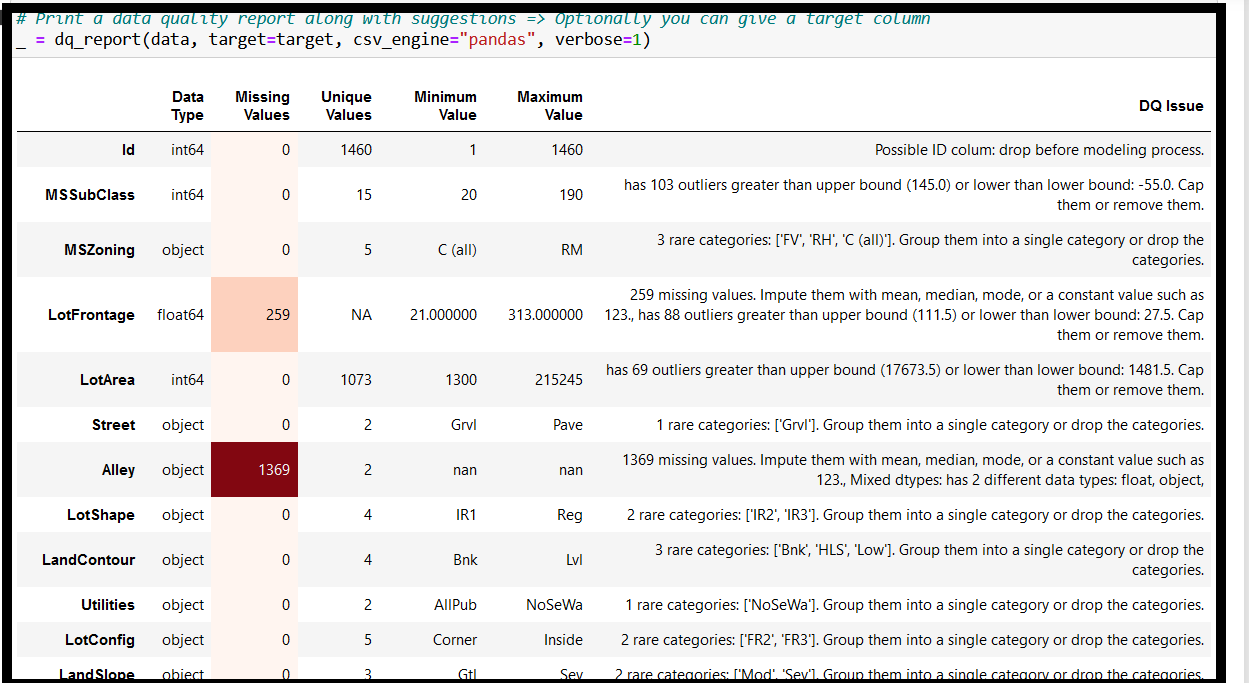
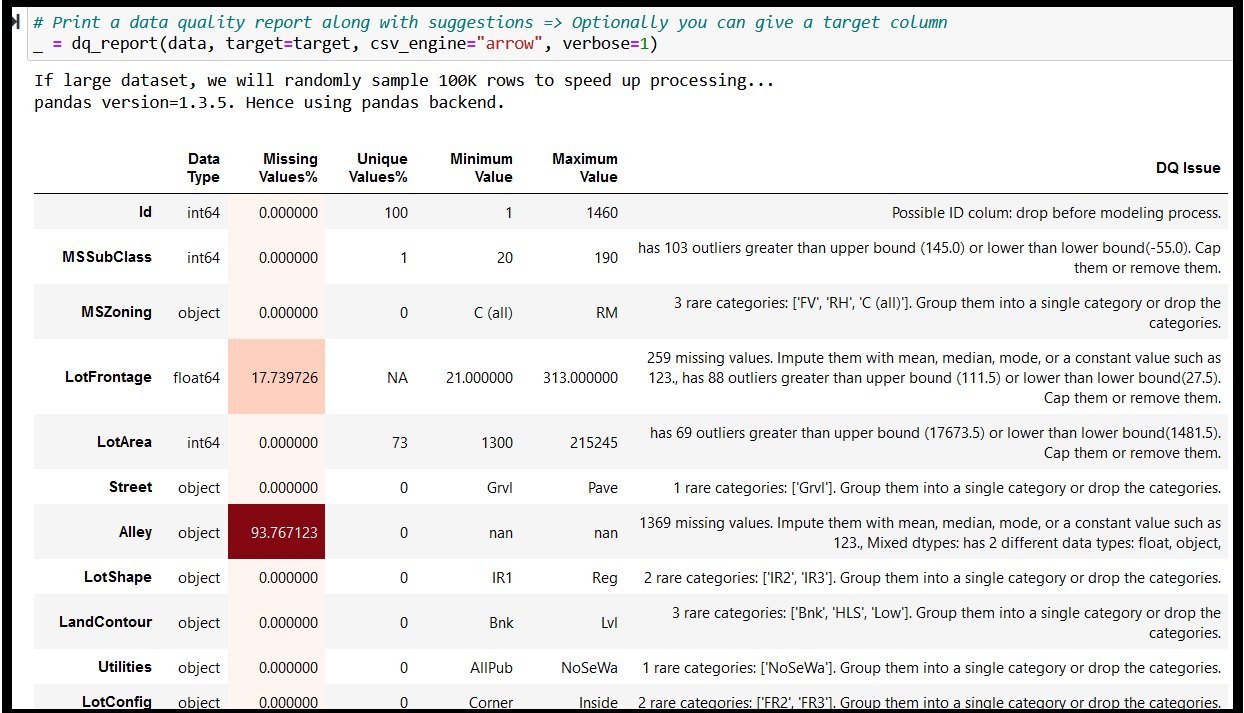
Adding percentages to dq_report

diff --git a/pandas_dq.py b/pandas_dq.py
@@ -69,26 +69,38 @@ def dq_report(data, target=None, csv_engine="pandas", verbose=0):
         ext = os.path.splitext(data)[-1]
         # Load the file into a pandas dataframe based on the extension
         if ext == ".csv":
+            print("If large dataset, we will randomly sample 100K rows to speed up processing...")
             if csv_engine == 'pandas':
                 # Upload the data file into Pandas
-                df = pd.read_csv(data, nrows=1000000)
+                df = pd.read_csv(data)
             elif csv_engine == 'polars':
                 # Upload the data file into Polars
                 import polars as pl
-                df_polars = pl.read_csv(data, nrows=1000000)
+                df = pl.read_csv(data)
             elif csv_engine == 'parquet':
                 # Upload the data file into Parquet
                 import pyarrow as pa
-                df_parquet = pa.read_table(data)
+                df = pa.read_table(data)
+            else :
+                # print the pandas version
+                if str(pd.__version__)[0] == '2':
+                    print(f"pandas version={pd.__version__}. Hence using pyarrow backend.")
+                    df = pd.read_csv(data, engine='pyarrow', dtype_backend='pyarrow')
+                else:
+                    print(f"pandas version={pd.__version__}. Hence using pandas backend.")
+                    df = pd.read_csv(data)
         elif ext == ".parquet":
             df = pd.read_parquet(data)
-        elif ext in [".feather", ".arrow"]:
+        elif ext in [".feather", ".arrow", "ftr"]:
             df = pd.read_feather(data)
         else:
             print("Unsupported file format. Please use CSV, parquet, feather or arrow.")
-            return
+            return data
+        ######## This is to sample the data if it is too large ###
+        if df.shape[0] >= 1000000:
+            df = df.sample(100000)
     elif isinstance(data, pd.DataFrame):
-        # Use the input dataframe as is
+        print("We use the input dataframe as is...")
         df = data
     else:
         print("Invalid input. Please provide a string (filename) or a dataframe.")
@@ -112,6 +124,7 @@ def dq_report(data, target=None, csv_engine="pandas", verbose=0):
     )
 
     missing_values = df.isnull().sum()
+    missing_values_pct = ((df.isnull().sum()/df.shape[0])*100)
     missing_cols = missing_values[missing_values > 0].index.tolist()
     number_cols = df.select_dtypes(include=["integer", "float"]).columns.tolist() # Get numerical columns
     float_cols = df.select_dtypes(include=[ "float"]).columns.tolist() # Get float columns
@@ -119,17 +132,17 @@ def dq_report(data, target=None, csv_engine="pandas", verbose=0):
     zero_var_cols = []
 
     missing_data = pd.DataFrame(
-        missing_values,
-        columns=['Missing Values']
+        missing_values_pct,
+        columns=['Missing Values%']
     )
     unique_values = pd.DataFrame(
-        columns=['Unique Values']
+        columns=['Unique Values%']
     )
     for row in list(df.columns.values):
         if row in float_cols:
             unique_values.loc[row] = ["NA"]
         else:
-            unique_values.loc[row] = [df[row].nunique()]
+            unique_values.loc[row] = [int(100*df[row].nunique()/df.shape[0])]
             if df[row].nunique() == df.shape[0]:
                 id_cols.append(row)
             elif df[row].nunique() == 1:
@@ -310,7 +323,7 @@ def dq_report(data, target=None, csv_engine="pandas", verbose=0):
                     dq_df1.loc[bad_col,'first_comma'] = ', '
                     first_time =False
                 ### check if there are outlier columns and print them ##
-                new_string = f"has {len(outliers)} outliers greater than upper bound ({upper_bound}) or lower than lower bound: {lower_bound}. Cap them or remove them."
+                new_string = f"has {len(outliers)} outliers greater than upper bound ({upper_bound}) or lower than lower bound({lower_bound}). Cap them or remove them."
                 dq_df2.loc[col,new_col] += dq_df2.loc[col,'first_comma'] + new_string
                 dq_df2.loc[col,'first_comma'] = ', '
         if len(outlier_cols) < 1:
@@ -327,7 +340,7 @@ def dq_report(data, target=None, csv_engine="pandas", verbose=0):
         dq_df1.loc[bad_col,new_col] += dq_df1.loc[bad_col,'first_comma'] + new_string
         dq_df1.loc[bad_col,'first_comma'] = ', '
         for col in high_card_cols:
-            new_string = f"high cardinality with {cardinality[col]} unique values."
+            new_string = f"high cardinality with {cardinality[col]} unique values: Use hash encoding or embedding to reduce dimension."
             dq_df2.loc[col,new_col] += dq_df2.loc[col,'first_comma'] + new_string
             dq_df2.loc[col,'first_comma'] = ', '
     else:
@@ -806,7 +819,7 @@ class Fix_DQ(BaseEstimator, TransformerMixin):
 
 ############################################################################################
 module_type = 'Running' if  __name__ == "__main__" else 'Imported'
-version_number =  '1.7'
+version_number =  '1.8'
 print(f"""{module_type} pandas_dq ({version_number}). Always upgrade to get latest version.
 from pandas_dq import dq_report, Fix_DQ
 """)

diff --git a/setup.py b/setup.py
@@ -5,7 +5,7 @@ with open("README.md", "r", encoding="utf-8") as fh:
 
 setuptools.setup(
     name="pandas_dq",
-    version="1.7",
+    version="1.8",
     author="Ram Seshadri",
     # author_email="author@example.com",
     description="Clean your data using a scikit-learn transformer in a single line of code",

diff --git a/README.md b/README.md
@@ -135,15 +135,16 @@ pandas_dq has a very simple API with just two modules to import: one will find d
 
 **Arguments**
 
-`dq_report` has only 4 arguments:
-- `data`: You can provide any kind of file format (string) or even a pandas DataFrame (df). It reads parquet, csv, feather, arrow, all kinds of file formats straight from disk. You just have to tell it the path to the file and the name of the file.
+`dq_report` has only 4 arguments:<br>
+<b>Caution:</b> For very large data sets, we randomly sample 100K rows from your CSV file to speed up reporting. If you want a larger sample, simply read in your file offline into a pandas dataframe and send it in as input, and we will load it as it is. This is one way to go around our speed limitations.
+- `data`: You can provide any kind of file format (string) or even a pandas DataFrame (df). It reads parquet, csv, feather, arrow, all kinds of file formats straight from disk. You just have to tell it the path to the file and the name of the file. 
 - `target`: default: `None`. Otherwise, it should be a string name representing the name of a column in df. You can leave it as `None` if you don't want any target related issues.
 - `csv_engine`: default is `pandas`. If you want to load your CSV file using any other backend engine such as `arrow` or `parquet` please specify it here. This option only impacts CSV files.
 - `verbose`: This has 2 possible states:
   - `0` summary report. Prints only the summary level data quality issues in the dataset. Great for managers.
   - `1` detailed report. Prints all the gory details behind each DQ issue in your dataset and what to do about them. Great for engineers.
 
-`Fix_DQ` has slightly more arguments:
+`Fix_DQ` has slightly more arguments:<br>
 <b>Caution:</b> X_train and y_train in Fix_DQ must be pandas Dataframes or pandas Series. I have not tested it on numpy arrays. You can try your luck.
 
 - `quantile`: float (0.75): Define a threshold for IQR for outlier detection. Could be any float between 0 and 1. If quantile is set to `None`, then no outlier detection will take place.
